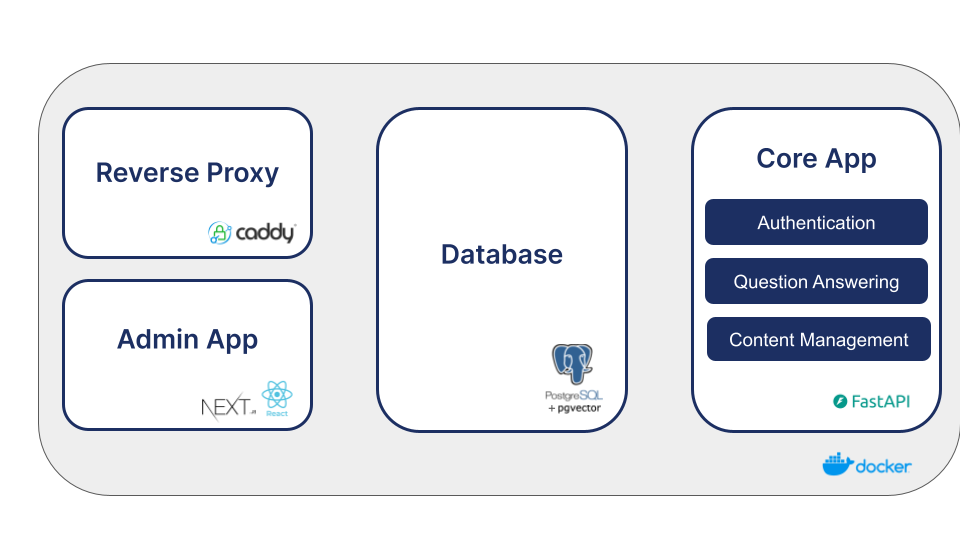
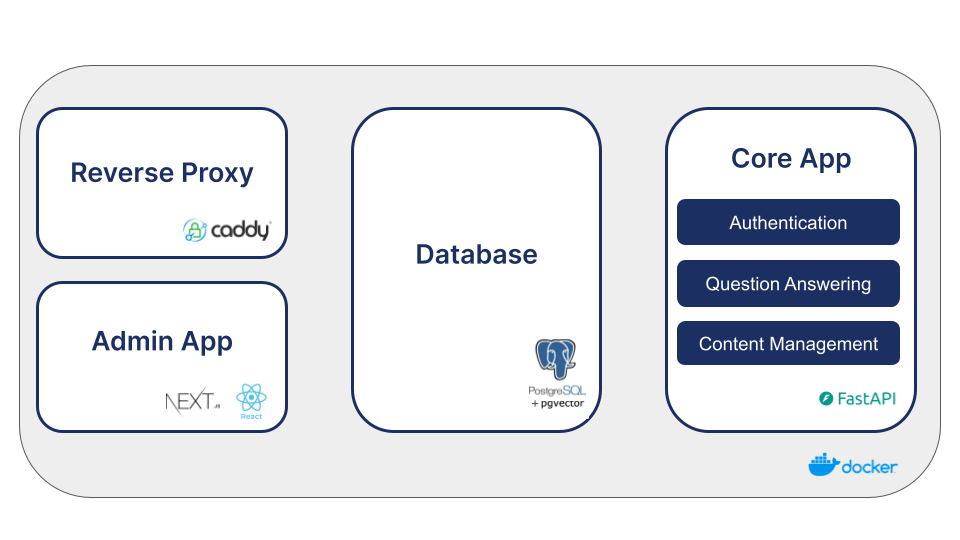
Update doc and docker architecture picture

diff --git a/docs/develop/setup.md b/docs/develop/setup.md
@@ -31,7 +31,7 @@ Otherwise, you can run them manually as below.
         docker run --name postgres-local \
             -e POSTGRES_PASSWORD=<your password> \
             -p 5432:5432 \
-            -d postgres
+            -d pgvector/pgvector:pg16
 
     Note that data will not be persisted when the container is destroyed. It might be
     preferable to create your database from scratch each time. But if you wish to persist data
@@ -41,7 +41,7 @@ Otherwise, you can run them manually as below.
         -e POSTGRES_PASSWORD=<your password> \
         -p 5432:5432 \
         -v postgres_local_vol:/var/lib/postrges/data \
-        -d postgres
+        -d pgvector/pgvector:pg16
 
     ### Run migrations
 
